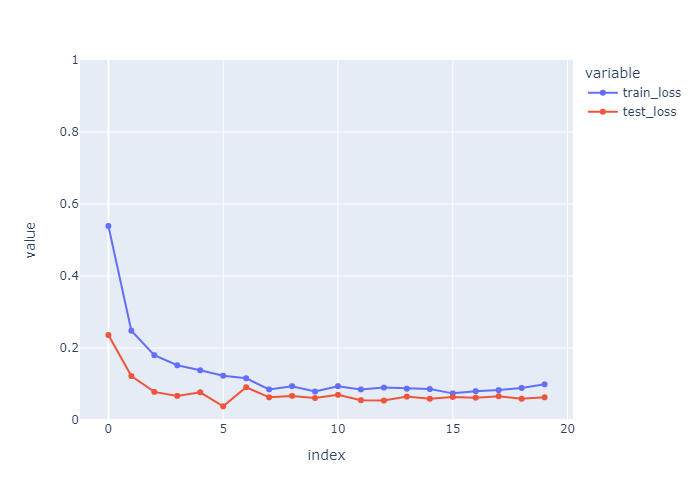
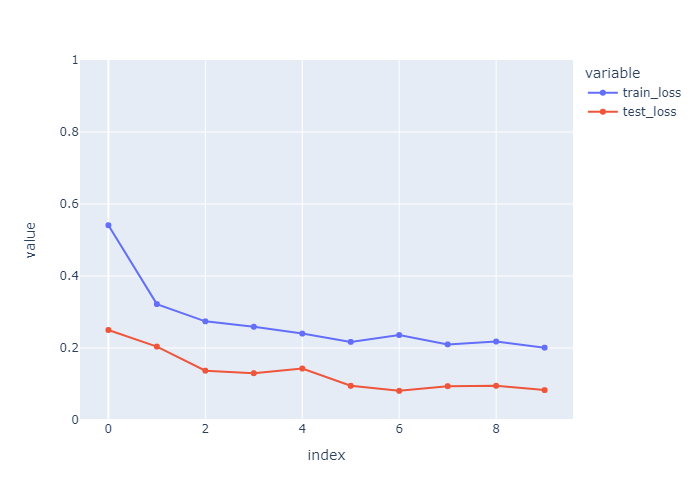
first commit

diff --git a/train.py b/train.py
@@ -1,11 +1,12 @@
+
 import time
 import copy
 import os
+import pandas as pd
+
 from pathlib import Path
 from PIL import Image
 import argparse
-
-import pandas as pd
 import numpy as np
 from sklearn.metrics import confusion_matrix
 
@@ -30,8 +31,8 @@ plt.style.use("ggplot")
 parser = argparse.ArgumentParser()
 parser.add_argument('-e', '--epochs', type=int, default=10,
     help='number of epochs to train our network for')
-parser.add_argument('-b', '--batch', type=int, default=16,
-    help='number of training examples in a batch')
+parser.add_argument('-b', '--batch', type=int, default=4,
+    help='number of training examples to be considered as a  batch')
 args = vars(parser.parse_args())
 
 epochs = args['epochs']
@@ -63,36 +64,30 @@ dataloaders = {x: torch.utils.data.DataLoader(image_datasets[x], batch_size=batc
 dataset_sizes = {x: len(image_datasets[x]) for x in ['train', 'test']}
 class_names = image_datasets['train'].classes
 
-print("\ntraining images :",dataset_sizes['train'])
-print("test images : ",dataset_sizes['test'])
-
 device = torch.device("cuda:0" if torch.cuda.is_available() else "cpu")
-print(f'Training on {torch.cuda.get_device_name()} \n')
 
-####fine tuning suffeleNet#################
 
-suffleNet =  models.shufflenet_v2_x0_5(weights=models.ShuffleNet_V2_X0_5_Weights.IMAGENET1K_V1)
+####fine tuning Swin Transformer#################
+
+resnet =  models.resnet50(weights=models.ResNet50_Weights.IMAGENET1K_V1)
 
 
 num_classes = 2
-for param in suffleNet.parameters():
-    param.requires_grad = False
-for param in suffleNet.conv5.parameters():
-    param.requires_grad = True
+for param in resnet.parameters():
+        param.requires_grad=False
 
-in_features = suffleNet.fc.in_features
-suffleNet.fc = nn.Sequential(nn.Linear(in_features=1024, out_features=64, bias=True),
-                             nn.Dropout(0.4,inplace=False),
-                             nn.Linear(64,num_classes)
-                            )
+    #Training the last fc layer
+in_features =  resnet.fc.in_features
+resnet.fc = nn.Linear(in_features,num_classes)
+            
 '''
-for param in suffleNet.parameters():
+for param in swin_t.parameters():
     if param.requires_grad == True :
         print(param.shape)
 '''    
 
 
-model = suffleNet.to(device)
+model = resnet.to(device)
 loss_fn = nn.CrossEntropyLoss()
 opt = optim.AdamW(model.parameters(), lr=0.001,weight_decay=0.01)
 exp_lr_scheduler = lr_scheduler.StepLR(opt, step_size=7, gamma=0.1)
@@ -170,7 +165,7 @@ def train_model(model, criterion, optimizer, scheduler, num_epochs):
         print()
 
     time_elapsed = time.time() - since
-    print(f'Training completed in {time_elapsed // 60:.0f}m {time_elapsed % 60:.0f}s')
+    print(f'Training complete in {time_elapsed // 60:.0f}m {time_elapsed % 60:.0f}s')
     with open("metrics.txt", "w") as outfile:
         outfile.write("Accuracy: " + str(round(best_acc.item(),3)) + "\n")
 
